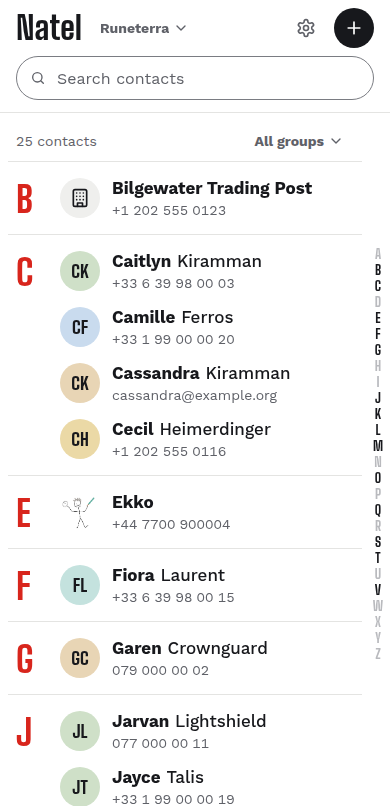
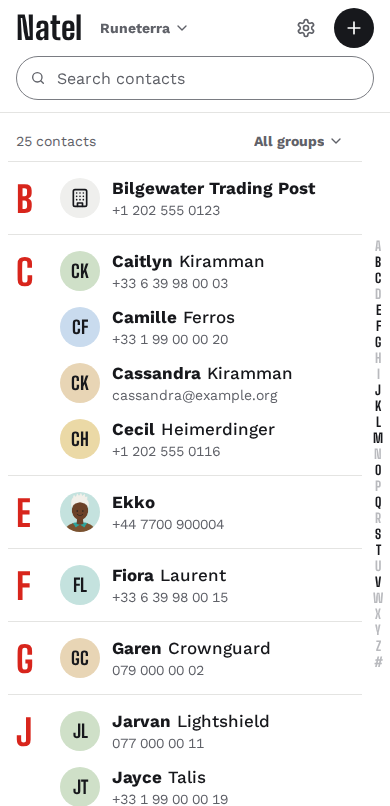
Show the phone's list on phones and the whole window beside the text
Under 48rem the hero shows the phone's list in place of a window too small
to read. From 64 to 90rem the window shows whole, cropped at the bottom.
The screenshots come from the 0.5.1 demo, the figures are measured on 0.5.1,
the footer mark keeps an edge on the light footer, and the diagram, lists,
install and callout share the section's right edge.

diff --git a/assets/style.css b/assets/style.css
@@ -267,11 +267,12 @@ code {
   .skip { right: calc(var(--gutter) + 5.5rem); }
 }
 
-/* Screenshots, in the hero. The desktop window always shows, since Natel is
-   used from a computer: a phone alone would read as a rival to the phone's
-   own contacts app. The phone joins it where there is room. Where the whole
-   window would shrink too far, it shows its left part, the list and the start
-   of a contact's page. */
+/* Screenshots, in the hero. The desktop window shows from 48rem, since
+   Natel is used from a computer: a phone alone would read as a rival to the
+   phone's own contacts app. It shows whole, cropped only at the bottom where
+   it sits beside the text, and the phone joins it where there is room. Under
+   48rem the window would shrink too far to read, so the phone's list takes
+   its place. */
 
 .hero .wrap {
   padding-block: clamp(2rem, 4vw, 3.5rem);
@@ -286,8 +287,6 @@ code {
   background: var(--paper);
 }
 .window img, .phone img { width: 100%; }
-.window.cropped { aspect-ratio: 980 / 700; }
-.window.cropped img { width: calc(100% * 1280 / 980); max-width: none; }
 .phone {
   display: none;
   aspect-ratio: 390 / 744;
@@ -307,7 +306,13 @@ code {
     padding-bottom: 4.5rem;
   }
   .shots-figure { margin-top: -4rem; }
-  .window { outline: 1px solid var(--rule); }
+  .window {
+    max-width: 22rem;
+    margin-inline: auto;
+    aspect-ratio: 390 / 640;
+    outline: 1px solid var(--rule);
+  }
+  .window img { height: 100%; object-fit: cover; object-position: top; }
 }
 
 @media (max-width: 23.99rem) {
@@ -316,8 +321,6 @@ code {
 
 /* Tablets: a compact window below the text, with the phone at its lower right. */
 @media (min-width: 48rem) and (max-width: 63.99rem) {
-  .window.cropped { aspect-ratio: auto; }
-  .window.cropped img { width: 100%; }
   .composition { max-width: 40rem; margin-inline: auto; }
   .window { width: calc(100% - 4rem); }
   .phone {
@@ -336,13 +339,16 @@ code {
   }
 }
 
-/* Wide screens: the text beside the window's left part. */
+/* Wide screens: the text beside the window, whose bottom rows give way so
+   it stays about as tall as the text. */
 @media (min-width: 64rem) and (max-width: 89.99rem) {
   .hero .wrap {
     grid-template-columns: 23.5rem minmax(0, 1fr);
     align-items: center;
     column-gap: 2.5rem;
   }
+  .window.cropped { aspect-ratio: 1280 / 720; }
+  .window.cropped img { height: 100%; object-fit: cover; object-position: top; }
 }
 
 @media (min-width: 64rem) and (max-width: 71.99rem) {
@@ -368,8 +374,6 @@ code {
     align-items: center;
     column-gap: 2.5rem;
   }
-  .window.cropped { aspect-ratio: auto; }
-  .window.cropped img { width: 100%; }
   /* Keep controls visible and reserve room down to the phone's bottom. */
   .shots-figure { min-height: calc(9.5rem + 15rem * 744 / 390); }
   .window { width: calc(100% - 13.2rem); }
@@ -453,7 +457,7 @@ p:last-child { margin-bottom: 0; }
 .also { margin: 2.5rem 0 0; }
 
 /* What Natel needs and what it leaves out, side by side once there is room. */
-.needs { margin: 0; display: grid; gap: 1rem; max-width: var(--measure); }
+.needs { margin: 0; display: grid; gap: 1rem; }
 @media (min-width: 48rem) { .needs { grid-template-columns: repeat(2, minmax(0, 1fr)); gap: 2rem; } }
 .needs dt { font-weight: 700; }
 .needs dd { margin: 0.15rem 0 0; color: var(--muted); font-size: 0.9375rem; }
@@ -465,7 +469,6 @@ p:last-child { margin-bottom: 0; }
   --line: color-mix(in srgb, var(--ink) 30%, var(--rule));
   margin: 1.5rem 0;
   display: grid;
-  max-width: var(--measure);
 }
 .flow .node {
   position: relative;
@@ -507,7 +510,6 @@ p:last-child { margin-bottom: 0; }
   padding: 0;
   display: grid;
   gap: 1rem;
-  max-width: var(--measure);
 }
 .group + .trust { margin-top: 1rem; }
 .trust + .group { margin-top: 2.5rem; }
@@ -551,7 +553,7 @@ p:last-child { margin-bottom: 0; }
 .technology img { align-self: center; width: 1.2rem; height: 1.2rem; object-fit: contain; }
 .technology .go-logo { width: 1.75rem; }
 
-.install { margin-top: 1.75rem; max-width: 50rem; }
+.install { margin-top: 1.75rem; }
 .panel + .panel { margin-top: 2rem; }
 .panel-title { margin-bottom: 0.5rem; }
 .panel p { margin: 0.75rem 0 0; }
@@ -589,7 +591,7 @@ p:last-child { margin-bottom: 0; }
 
 .callout {
   margin: 1.5rem 0 0;
-  max-width: 50rem;
+  max-width: none;
   padding: 0.9rem 1rem;
   border: 1px solid color-mix(in srgb, var(--warning) 40%, transparent);
   background: color-mix(in srgb, var(--warning) 5%, transparent);
@@ -599,7 +601,6 @@ p:last-child { margin-bottom: 0; }
 
 pre {
   margin: 0.6rem 0 0;
-  max-width: 50rem;
   padding: 0.9rem 1rem;
   background: var(--wash);
   border: 1px solid var(--rule);
@@ -619,7 +620,6 @@ pre code { background: none; padding: 0; font-size: inherit; }
   --code-key: #a33f3a;
   position: relative;
   margin-top: 0.6rem;
-  max-width: 50rem;
   border: 1px solid var(--rule);
   border-radius: var(--radius);
   overflow: hidden;
@@ -743,7 +743,14 @@ footer .brandline {
   gap: 0.75rem;
   flex: 1 1 24rem;
 }
-footer .brandline img { width: 2rem; height: 2rem; flex: none; }
+/* The mark's white card would vanish into the light footer. */
+footer .brandline img {
+  width: 2rem;
+  height: 2rem;
+  flex: none;
+  border-radius: 0.45rem;
+  box-shadow: 0 0 0 1px var(--rule);
+}
 footer .repo-link {
   display: inline-flex;
   align-items: center;

diff --git a/index.html b/index.html
@@ -19,7 +19,7 @@
   <link rel="apple-touch-icon" href="/apple-touch-icon.png">
   <link rel="preload" href="assets/fonts/work-sans-latin-wght-normal.woff2" as="font" type="font/woff2" crossorigin>
   <!-- A content hash keeps cached styles aligned with this page. -->
-  <link rel="stylesheet" href="assets/style.css?v=9aa39518109d">
+  <link rel="stylesheet" href="assets/style.css?v=82225f44d7eb">
   <script src="assets/tabs.js?v=3e4f7ae360ea" defer></script>
 
   <!-- Homepage previews use the slogan as the hook and the lead as a factual summary. -->
@@ -108,10 +108,14 @@
         <div class="composition">
           <div class="window cropped">
             <picture>
+              <source width="390" height="806" type="image/webp" sizes="min(22rem, 100vw - 2rem)" media="(max-width: 47.99rem) and (prefers-color-scheme: dark)" srcset="assets/img/mobile-dark.webp 390w, assets/img/mobile-dark@2x.webp 780w">
+              <source width="390" height="806" sizes="min(22rem, 100vw - 2rem)" media="(max-width: 47.99rem) and (prefers-color-scheme: dark)" srcset="assets/img/mobile-dark.png 390w, assets/img/mobile-dark@2x.png 780w">
+              <source width="390" height="806" type="image/webp" sizes="min(22rem, 100vw - 2rem)" media="(max-width: 47.99rem)" srcset="assets/img/mobile-light.webp 390w, assets/img/mobile-light@2x.webp 780w">
+              <source width="390" height="806" sizes="min(22rem, 100vw - 2rem)" media="(max-width: 47.99rem)" srcset="assets/img/mobile-light.png 390w, assets/img/mobile-light@2x.png 780w">
               <source type="image/webp" sizes="(min-width: 90rem) 48rem, (min-width: 72rem) 44rem, (min-width: 48rem) calc(100vw - 10rem), 100vw" media="(prefers-color-scheme: dark)" srcset="assets/img/desktop-dark.webp 1280w, assets/img/desktop-dark@2x.webp 2560w">
               <source sizes="(min-width: 90rem) 48rem, (min-width: 72rem) 44rem, (min-width: 48rem) calc(100vw - 10rem), 100vw" media="(prefers-color-scheme: dark)" srcset="assets/img/desktop-dark.png 1280w, assets/img/desktop-dark@2x.png 2560w">
               <source type="image/webp" sizes="(min-width: 90rem) 48rem, (min-width: 72rem) 44rem, (min-width: 48rem) calc(100vw - 10rem), 100vw" srcset="assets/img/desktop-light.webp 1280w, assets/img/desktop-light@2x.webp 2560w">
-              <img sizes="(min-width: 90rem) 48rem, (min-width: 72rem) 44rem, (min-width: 48rem) calc(100vw - 10rem), 100vw" fetchpriority="high" src="assets/img/desktop-light.png" srcset="assets/img/desktop-light.png 1280w, assets/img/desktop-light@2x.png 2560w" width="1280" height="900" alt="Natel on a desktop screen: the contact list grouped by letter on the left, with a phone number or email on each row, and Caitlyn Kiramman's page on the right, with Call, Text and Email buttons, her phone, email, birthday and group.">
+              <img sizes="(min-width: 90rem) 48rem, (min-width: 72rem) 44rem, (min-width: 48rem) calc(100vw - 10rem), 100vw" fetchpriority="high" src="assets/img/desktop-light.png" srcset="assets/img/desktop-light.png 1280w, assets/img/desktop-light@2x.png 2560w" width="1280" height="900" alt="Natel's contact list, grouped by letter, with a phone number or email on each row. On a desktop screen, Caitlyn Kiramman's page sits beside it, with Call, Text and Email buttons, her phone, email, birthday and group.">
             </picture>
           </div>
           <div class="phone">
@@ -173,7 +177,7 @@
                 <div><dt><svg class="icon" viewBox="0 0 24 24" aria-hidden="true"><path d="M17 3a2.85 2.83 0 1 1 4 4L7.5 20.5 2 22l1.5-5.5Z"/></svg>Details</dt><dd>Names, phones, emails, addresses, websites, birthdays and notes.</dd></div>
                 <div><dt><svg class="icon" viewBox="0 0 24 24" aria-hidden="true"><rect x="5" y="2" width="14" height="20" rx="2"/><path d="M12 18h.01"/></svg>iPhone and Android</dt><dd>Keeps what iPhone and DAVx⁵ write: custom labels, birthdays without a year.</dd></div>
                 <div><dt><svg class="icon" viewBox="0 0 24 24" aria-hidden="true"><path d="M16 21v-2a4 4 0 0 0-4-4H6a4 4 0 0 0-4 4v2"/><circle cx="9" cy="7" r="4"/><path d="M22 21v-2a4 4 0 0 0-3-3.87M16 3.13a4 4 0 0 1 0 7.75"/></svg>Groups</dt><dd>Add it to a group or take it out, in the group cards Apple and DAVx⁵ use.</dd></div>
-                <div><dt><svg class="icon" viewBox="0 0 24 24" aria-hidden="true"><path d="M5 12h14m-6-6 6 6-6 6"/></svg>Another book</dt><dd>Move it there without exporting and importing it again.</dd></div>
+                <div><dt><svg class="icon" viewBox="0 0 24 24" aria-hidden="true"><path d="M5 12h14m-6-6 6 6-6 6"/></svg>Move to another book</dt><dd>Move it there without exporting and importing it again.</dd></div>
               </dl>
             </div>
             <div class="half">
@@ -248,7 +252,7 @@
               <span class="stat-label">RAM at idle</span>
             </li>
           </ul>
-          <p class="note">Measured on linux/amd64, 15 October 2026.</p>
+          <p class="note">Natel 0.5.1, measured on linux/amd64, 11 November 2026.</p>
 
           <div class="install" data-tabs>
             <div class="tablist" data-tablist hidden></div>

diff --git a/404.html b/404.html
@@ -13,7 +13,7 @@
   <link rel="icon" href="/favicon.svg" type="image/svg+xml">
   <link rel="apple-touch-icon" href="/apple-touch-icon.png">
   <!-- Absolute paths: this page answers at any depth. -->
-  <link rel="stylesheet" href="/assets/style.css?v=9aa39518109d">
+  <link rel="stylesheet" href="/assets/style.css?v=82225f44d7eb">
 </head>
 <body>
   <main class="hero not-found">

diff --git a/README.md b/README.md
@@ -29,16 +29,18 @@ python3 -m http.server 8000 --bind 127.0.0.1
   with Caitlyn Kiramman's page open and the phone at 390×806 on the list,
   for the hero, and two screens at 736×520 for "What it does", Luxanna
   Crownguard's form and the list with its group menu open. The hero
-  always shows the desktop, cropped to its left part where it would shrink
-  too far, and adds the phone where there is room. In the main
+  shows the whole desktop from 48rem, cropped at the bottom beside the
+  text, and adds the phone where there is room. Under 48rem, the phone's
+  list takes its place. In the main
   repository, `pnpm brand:images --site ../natel.app/assets/img` renders
   them and copies the `og:image`.
 
 ## Measured figures
 
 The image size and RAM figures in "Run it" come from the "Build" section of
-`docs/ARCHITECTURE.md` in KewinDousse/natel, measured on 2026-10-15. Update
-them here whenever that section has a new measurement.
+`docs/ARCHITECTURE.md` in KewinDousse/natel. The note under them gives the
+version and date of the measurement, 0.5.1 on 2026-11-11. Update both
+whenever that section has a new measurement.
 
 ## Version
 
